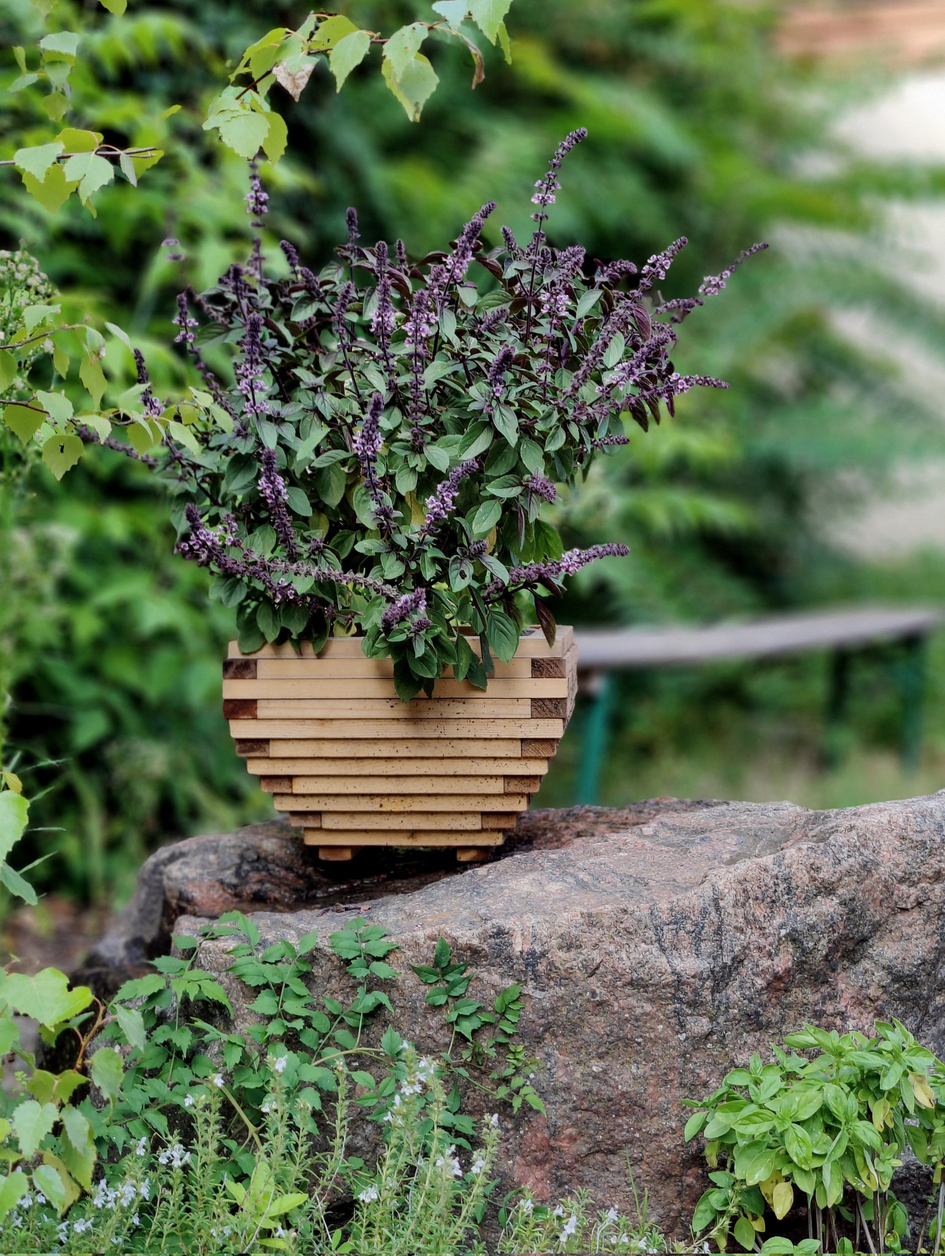
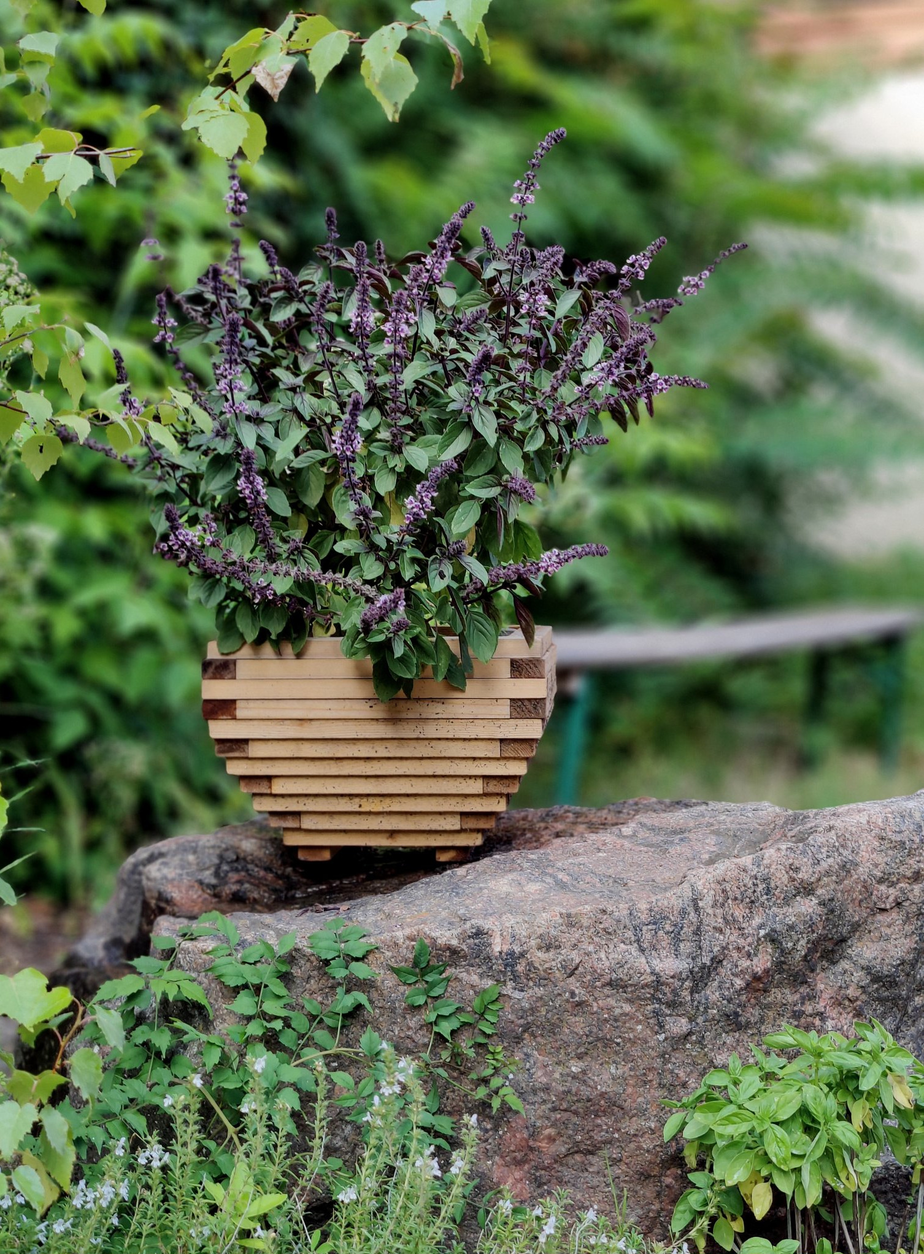
add trough wide picture

diff --git a/README.md b/README.md
@@ -1,7 +1,9 @@
 # Hyperwood Trough
 This versatile trough demonstrates Hyperwood’s capability to create curved forms from straight slats—perfect as a plant container or decorative piece.
 
-![A picture showing this trough with a basil plant](basilikum.jpg)
+![A picture showing a trough with a basil plant](basilikum.jpg)
+
+![A picture showing a wide triough](trough-wide.jpg)
 
 ## Usage
 ```
